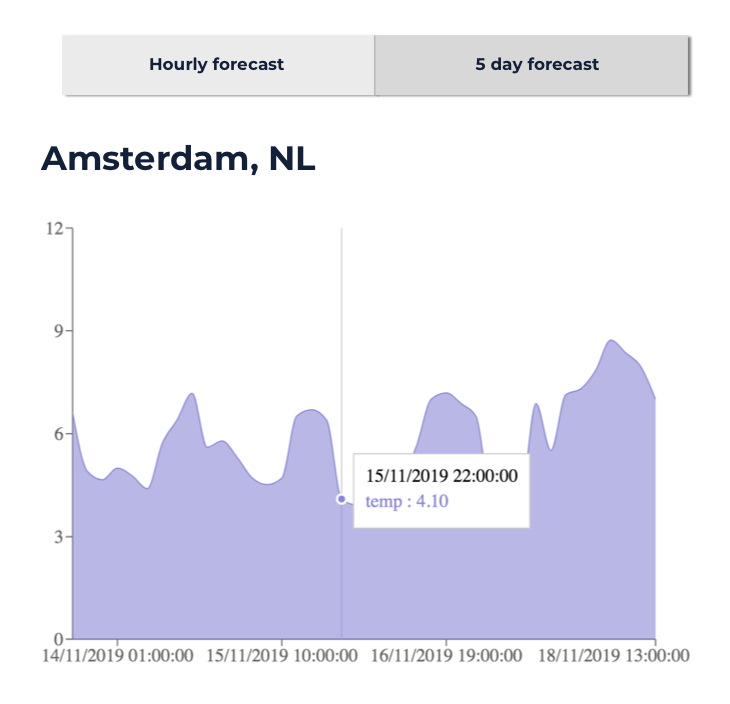
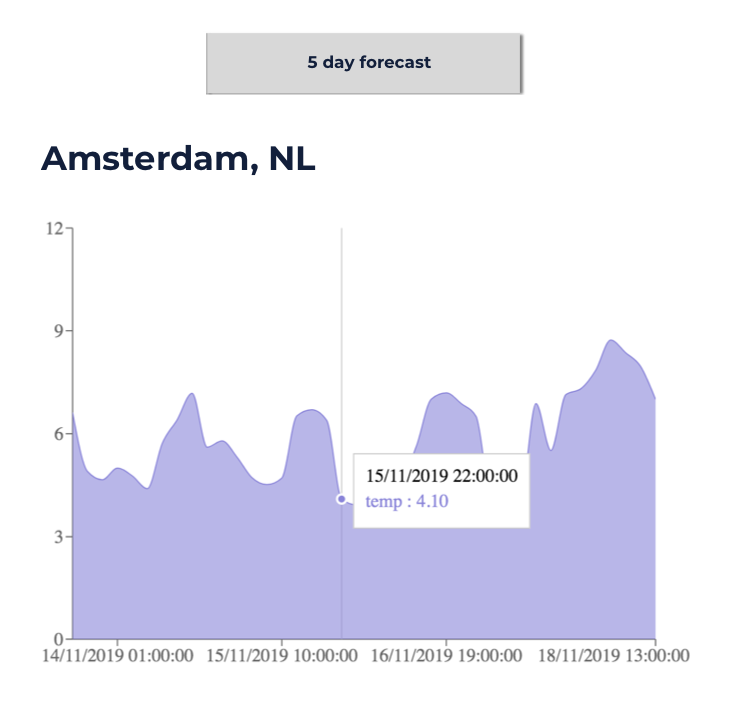
fix: updates on hw and lesson plans

Changed region(s): [[0.211, 0.0312, 0.9644, 0.1562]]

diff --git a/hand-in-homework-guide.md b/hand-in-homework-guide.md
@@ -21,16 +21,17 @@ EVERY WEEK
 1. Create a new branch for each week you have homework. For example, for the week 1 homework for React create a branch called `week-1-homework-YOUR_NAME`
 2. Inside the correct week folder, create another folder called `homework`. Make your homework files in there, while on the correct branch
 3. Once you're finished, add and commit everything. Make the commit message meaningful, for example `finished project for homework week1`
-4. Push the branch to your forked repository
-5. On the GitHub page of your forked repository, click on the `create pull request` button. Make sure the `base repository` is your teacher's repository, on branch master
-6. Give the pull request a title in the following format:
+4. deploy the homework on netlify/now and copy the the deplyed link.
+5. Push the branch to your forked repository
+6. On the GitHub page of your forked repository, click on the `create pull request` button. Make sure the `base repository` is your teacher's repository, on branch master
+7. Give the pull request a title in the following format:
 
 ```markdown
 Homework week 1 <Your name>
 ```
-
-7. Submit the pull request from your forked repository branch into the `master` branch
-8. Do a little victory dance because you did it! Good job!
+8. add the deployed url of the homework to the pull request description.
+9. Submit the pull request from your forked repository branch into the `master` branch
+10. Do a little victory dance because you did it! Good job!
 
 For a visual walkthrough the steps please watch the following video one of our teachers, Unmesh Joshi, has made:
 

diff --git a/week1/README.md b/week1/README.md
@@ -200,20 +200,18 @@ As you've learned in the Node.js module, we can use server-side frameworks like 
 
 But what if we don't want to setup a whole web server to do this?
 
-### Static site generators
+### Static site hosting 
 
-We call these `static site generators`. They take a lot of the basic web server setup out of our hands. All we have to do is upload our frontend (in other words, our static website) to that particular service's web server and that's it. The generator creates a URL for us that we can use to access our website.
+We call these `static site hosting`. They take a lot of the basic web server setup out of our hands. All we have to do is upload our frontend (in other words, our static website) to that particular service's web server and that's it. The generator creates a URL for us that we can use to access our website.
 
-Examples of static site generators are the following:
+Examples of static site hosting are the following:
 
 - [Netlify](https://www.netlify.com/)
 - [Now](https://zeit.co/)
-- [Jekyll](https://jekyllrb.com/)
 
-To learn more about static site generators, study the following:
+To learn more about static site hosting, study the following:
 
-- [The Reign of Static Site Generators](https://www.netlify.com/blog/2018/07/12/the-reign-of-static-site-generators/)
-- [Why use a Static Site Generator](https://www.youtube.com/watch?v=mDKQGANttyE)
+- [A Step-by-Step Guide: Deploying A Static Site or Single-page App](https://www.netlify.com/blog/2016/10/27/a-step-by-step-guide-deploying-a-static-site-or-single-page-app/)
 
 ## Finished?
 

diff --git a/week4/MAKEME.md b/week4/MAKEME.md
@@ -48,10 +48,7 @@ Here are the requirements your project needs to fulfill:
 - Divide your page into 2 different routes (`/` and `/:cityId`), using `react-router-dom`
 - Allow users to click on the searched city to open the city page
 - The city page will be on a different route identified by the city id (make use of the `<Link>` component given by `react-router-dom`)
-- On the city page there will be several things:
-  - Two tabs, one for the hourly forecast and the other for a 5 day forecast
-  - A chart (made with `recharts`) that displays the correct data according to which tab is active
-- Clicking on a tab will do 2 things: (1) make an API call to get the right data (using the city id from the URL params), and (2) switch the active component (from the hourly forecast to the five day forecast and vice versa)
+- On the city page there will be a chart (made with `recharts`) that displays the correct data for 5-day forecast
 - Add a "Back" button to go back to `/`, on the city page
 - Redeploy your site
 

diff --git a/week1/LESSONPLAN.md b/week1/LESSONPLAN.md
@@ -29,6 +29,7 @@ _Show [example](https://htmlstream.com/preview/unify-v2.6.2/unify-main/home/home
 - Solves problem of manually configuring file bundler (like Webpack) or transpiler (Babel)
 - Improves workflow through `hot reloading`
 - Gives a more realistic folder structure
+- Building a production version of react app and deploying on static site hosting service (netlify/now)
 
 _Explain to the student the problems Webpack (ex. React necessitates file bundling to work) and Babel (ex. React makes use of ES2017+ features that need to be converted into syntax that older browsers can understand) solves_
 

diff --git a/week2/MAKEME.md b/week2/MAKEME.md
@@ -76,7 +76,7 @@ Let's continue building on our application! This week you'll replace the applica
 
 1. Sign up for an API key at [OpenWeatherMap App ID](https://openweathermap.org/appid)
 2. Create a `.env` file in the root of your project folder
-3. Paste the API key inside the `.env` file with the name `OPENWEATHERMAP_API_KEY`
+3. Paste the API key inside the `.env` file with the name `REACT_APP_OPENWEATHERMAP_API_KEY`
 
 ### 2. Requirements
 

diff --git a/week5/test.md b/week5/test.md
@@ -20,10 +20,9 @@ Like the homework you will get feedback and are expected to improve upon your we
 
 The test will be about all the main React concepts you’ve learned about these past 4 weeks. The following are the most important that will be tested:
 
-- `State`
-- `Props`
-- `Lifecycle methods`
 - `Components` (functional components)
+- `Props`
+- `Hooks (state and effect)`
 - `API calls`
 - `Client-side routing`
 

diff --git a/week1/MAKEME.md b/week1/MAKEME.md
@@ -130,6 +130,6 @@ The homework that needs to be submitted is the following:
 1. JavaScript exercises
 2. Project: Hack Your Weather I
 
-**This time also put the URL to your deployed website in your class' slack channel!**
+**This time also put the URL to your deployed website in your homework pull request!**
 
 _Deadline Saturday 23.59 CET_
